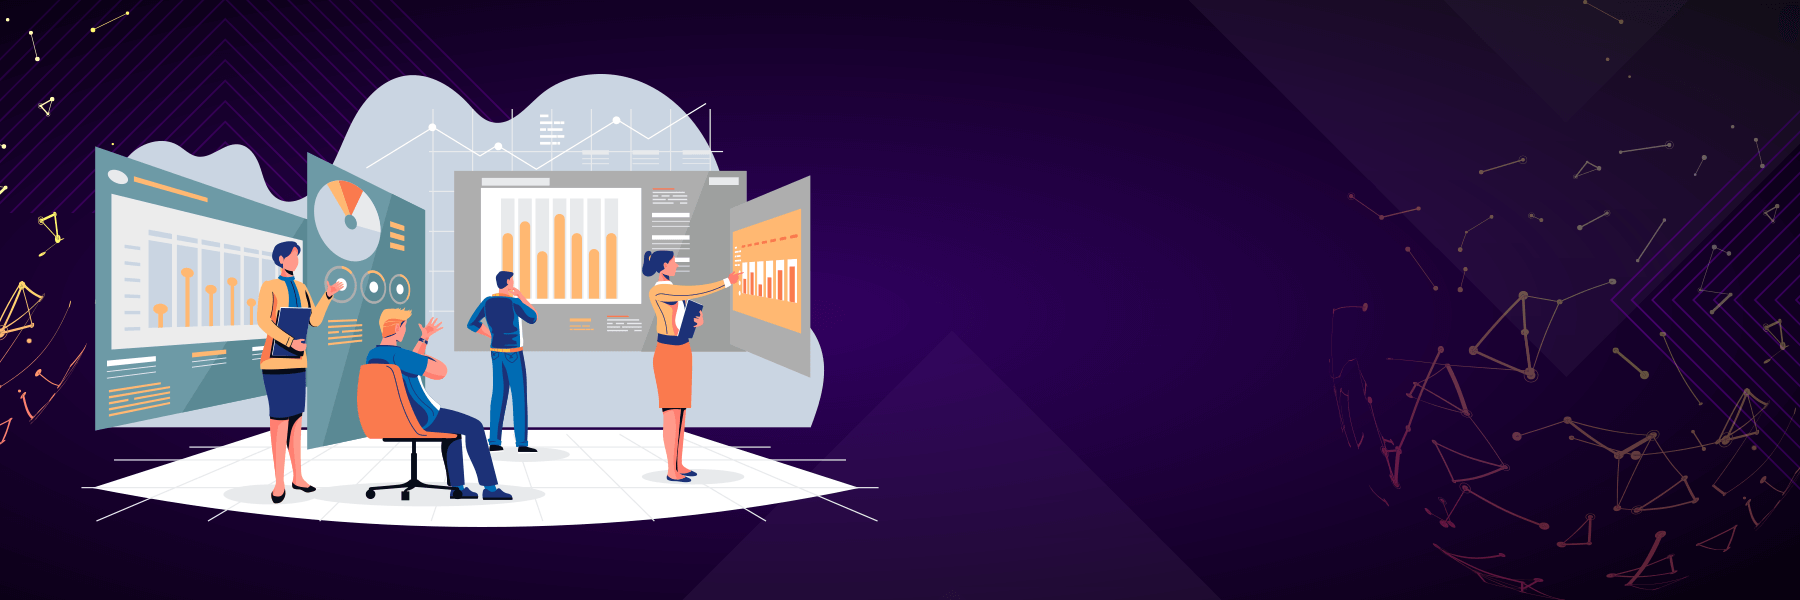
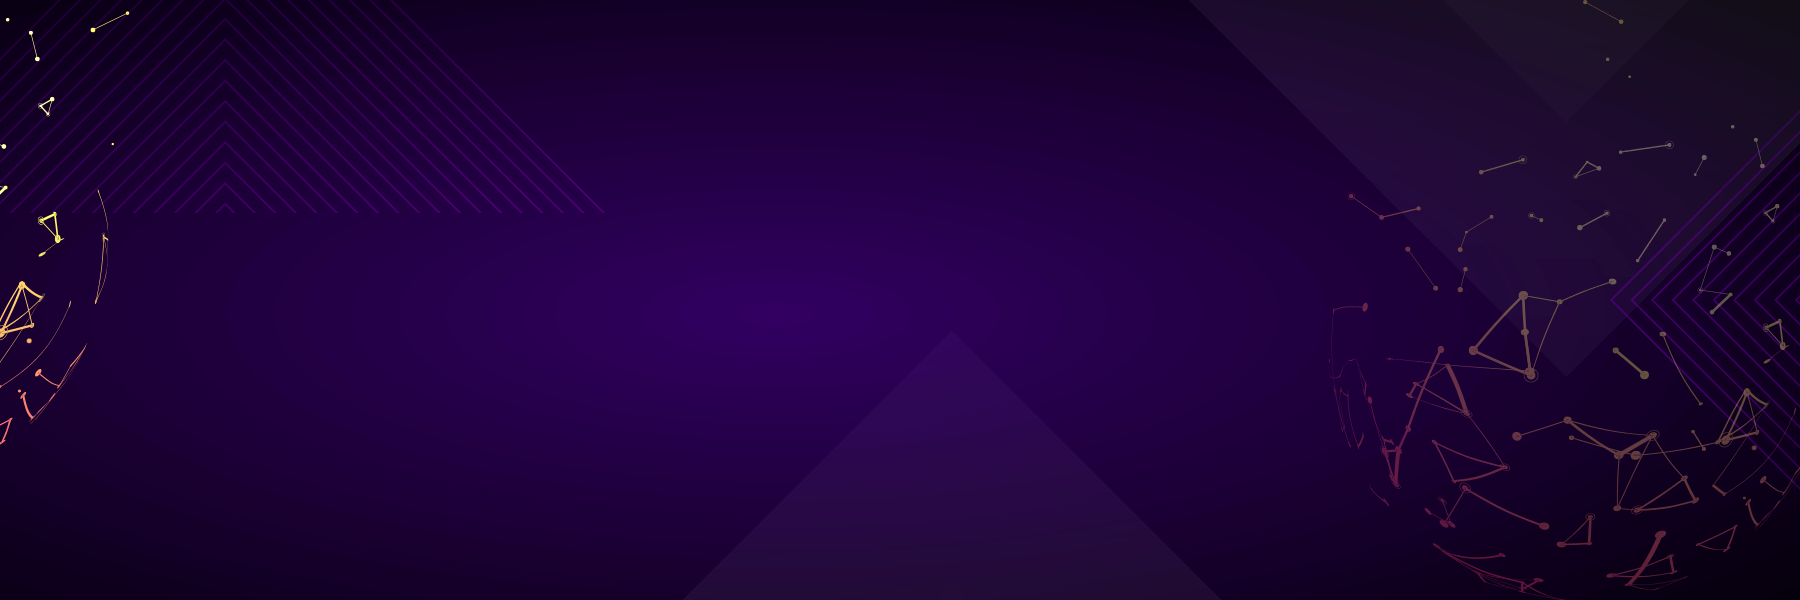
Edited images and css for web-analytics hero section

Changed region(s): [[0.0311, 0.12, 0.4978, 0.9]]

diff --git a/pages/web-analytics.jsx b/pages/web-analytics.jsx
@@ -25,7 +25,8 @@ import {
 import ReportAnalysis2Svg from "../components/svg/ReportAnalysis2Svg";
 import CheckSvg from "../components/svg/CheckSvg";
 import ScrollLink from "../components/ScrollLink";
-
+import Image from "next/image";
+import ilustration from "../public/img/pages/hero-analytics-ilustration.png";
 const webAnalytics = () => {
   return (
     <main>
@@ -47,32 +48,41 @@ const webAnalytics = () => {
       <ServicesHeroStyled backgroundImg={"./img/pages/hero-analytics.png"}>
         <Stack stackSpace={"var(--s4)"} stackAlign={"inherit"}>
           <div className="hero-background">
-            <Region>
-              <Wrapper>
-                <div className="hero-content ">
-                  <Stack stackAlign={"end"}>
-                    <AnimationContainer>
-                      <h1>
-                        Every company’s data has hidden gems that could
-                        skyrocket your profits
-                      </h1>
-                    </AnimationContainer>
-                    <AnimationContainer>
-                      <div className="desktop">
-                        <ScrollLink href="#contact-form-section">
-                          <Button reverse={true}>
-                            Discover your gems! <span></span>
-                            <span></span>
-                            <span></span>
-                            <span></span>
-                          </Button>
-                        </ScrollLink>
-                      </div>
-                    </AnimationContainer>
-                  </Stack>
-                </div>
-              </Wrapper>
-            </Region>
+            {/* <Region>
+              <Wrapper> */}
+            <div className="hero-content ">
+              <div>
+                <Image
+                  className="hero-ilustration"
+                  src={ilustration}
+                  width={500}
+                  // height={500}
+                  alt="ilustration"
+                ></Image>
+              </div>
+              <Stack stackAlign={"end"}>
+                <AnimationContainer>
+                  <h1>
+                    Every company’s data has hidden gems that could skyrocket
+                    your profits
+                  </h1>
+                </AnimationContainer>
+                <AnimationContainer>
+                  <div className="desktop">
+                    <ScrollLink href="#contact-form-section">
+                      <Button reverse={true}>
+                        Discover your gems! <span></span>
+                        <span></span>
+                        <span></span>
+                        <span></span>
+                      </Button>
+                    </ScrollLink>
+                  </div>
+                </AnimationContainer>
+              </Stack>
+            </div>
+            {/* </Wrapper>
+            </Region> */}
           </div>
           <div className="mobile mr-t-4">
             <Wrapper>

diff --git a/components/styles/services/ServicesHeroStyled.styled.jsx b/components/styles/services/ServicesHeroStyled.styled.jsx
@@ -4,20 +4,42 @@ export const ServicesHeroStyled = styled.div`
   color: var(--text-light);
   margin-block-start: 65px;
   .hero-background {
+    position: relative;
     display: flex;
     align-items: center;
     justify-content: center;
     background-image: url(${(props) => props.backgroundImg || ""});
     background-repeat: no-repeat;
     background-size: cover;
-    background-position: ${(props) => props.deskPos || "15%"};
-    min-height: 80vh;
+    background-position: center;
   }
 
   .hero-content {
+    display: flex;
+    flex-wrap: wrap;
+    align-items: flex-end;
+    /* max-width: 50%; */
+    /* margin-inline-start: auto; */
+  }
+
+  .hero-content > * {
+    flex-basis: 50%;
+  }
+
+  .hero-content > *:first-child {
+    display: flex;
+    align-items: flex-end;
+  }
+
+  .hero-content > *:last-child {
+    padding: 4rem;
+    min-width: 20rem;
     text-align: end;
-    max-width: 50%;
-    margin-inline-start: auto;
+  }
+
+  .hero-ilustration {
+    object-fit: contain;
+    object-position: bottom;
   }
 
   .service-info {
@@ -46,21 +68,31 @@ export const ServicesHeroStyled = styled.div`
       margin-inline: auto;
     }
 
-    .hero-background {
+    /* .hero-background {
       min-height: 250px;
       background-position: ${(props) => props.tabPos || "30%"};
+    } */
+  }
+
+  @media (max-width: 640px) {
+    .hero-content {
+      flex-direction: column-reverse;
+    }
+    .hero-content > *:last-child {
+      padding: 2rem 2rem 0 2rem;
+      text-align: center;
     }
   }
 
   @media (max-width: 450px) {
-    .hero-background {
+    /* .hero-background {
       background-position: ${(props) => props.mobPos || "40%"};
       min-height: 150px;
-    }
+    } */
 
-    h1 {
+    /* h1 {
       font-size: var(--s0);
-    }
+    } */
   }
 
   @media (prefers-color-scheme: dark) {
